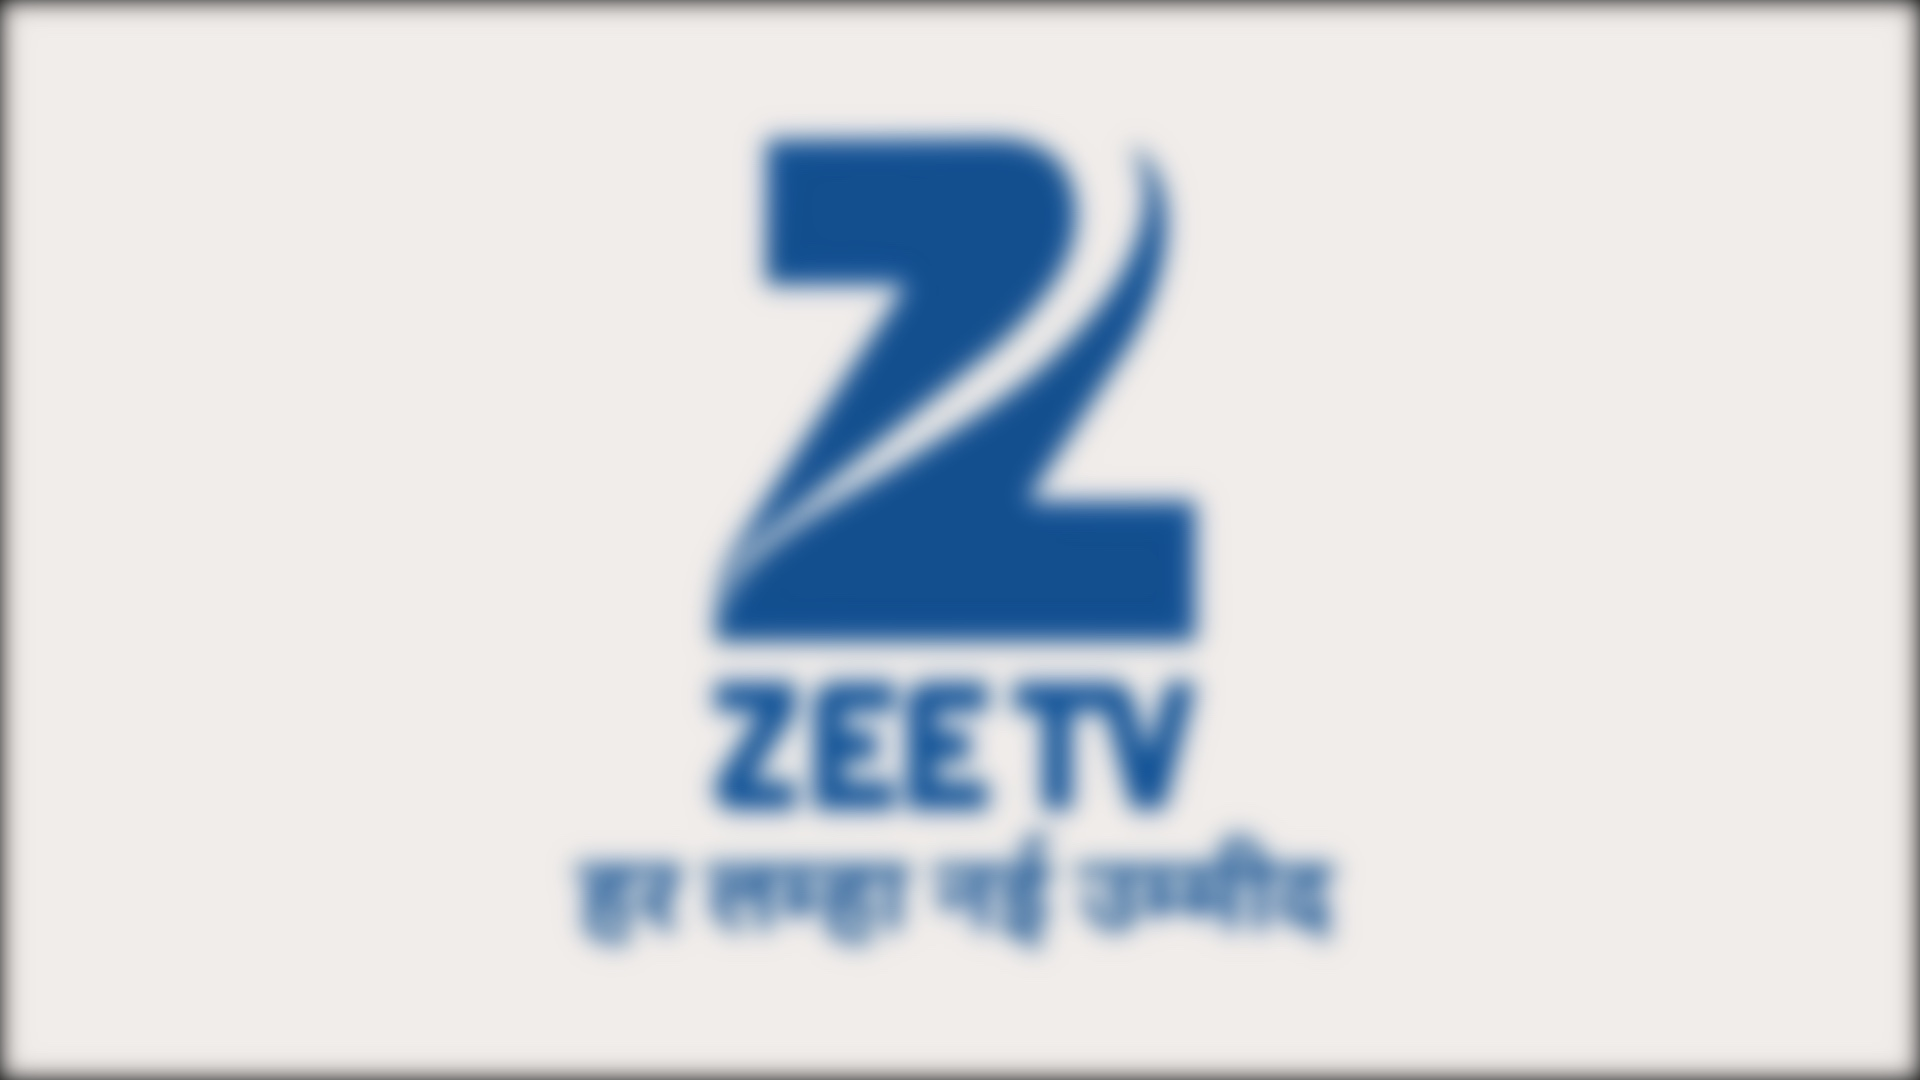
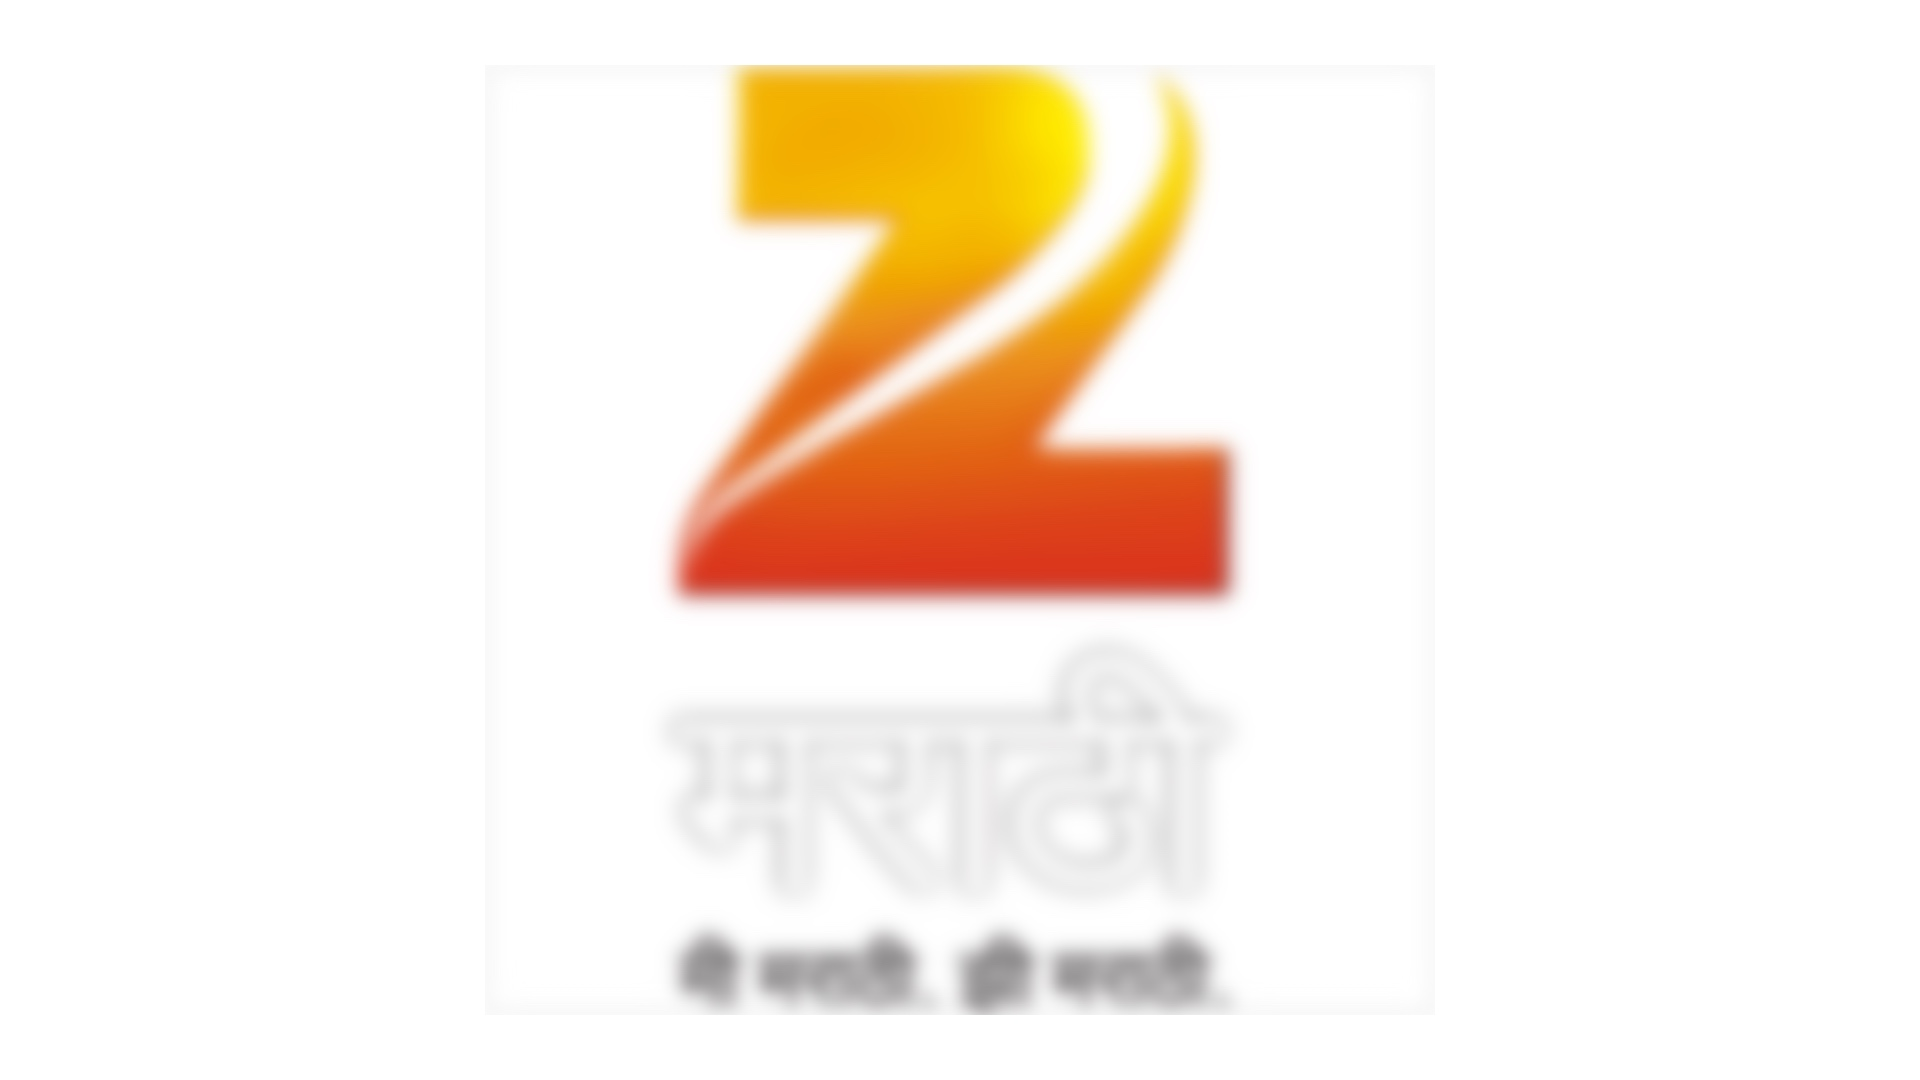
[plugin.video.zeemarathi] 0.0.3

Changed region(s): [[0.2812, 0.0611, 0.7188, 0.9472], [0.0, 0.0, 1.0, 1.0]]

diff --git a/plugin.video.zeetv/addon.py b/plugin.video.zeetv/addon.py
@@ -16,8 +16,6 @@ def current_shows():
 
     soup = BeautifulSoup(h.make_request(url, cookie_file, cookie_jar))
 
-    h2s = h.bs_find_all_with_class(soup, 'h2', 'bubble-title')
-
     # XXX: If want sorted
     # import operator
     # shows = {}
@@ -26,14 +24,16 @@ def current_shows():
 
     # XXX: View mode thumbnail supported in xbmcswift2
 
-    h2 = None
-    for h2 in h2s:
-        if h2.text == 'Current Shows':
-            for li in h2.findNext('ul').findAll('li'):
+    h2 = soup.findAll('h2')
+
+    for h2 in soup.findAll('h2'):
+        if h2.text == 'Shows':
+            for li in h2.nextSibling.find('ul').findAll('li'):
                 a = li.find('a')
                 a_attrs = dict(a.attrs)
+                title = '%s (%s)' % (h.bs_find_with_class(a, 'div', 'zc-show-title').text, h.bs_find_with_class(a, 'div', 'zc-air-time').text)
                 img_src = dict(a.find('img').attrs)['src']
-                h.add_dir(addon_handle, base_url, a_attrs['title'], a_attrs['href'], 'show', img_src, img_src)
+                h.add_dir(addon_handle, base_url, title, '%s/video/' % a_attrs['href'], 'show', img_src, img_src)
             break
 
 
@@ -42,57 +42,43 @@ def archive_shows():
 
     soup = BeautifulSoup(h.make_request(url, cookie_file, cookie_jar))
 
-    ul = h.bs_find_with_class(soup, 'ul', 'archive-shows')
+    h2 = soup.findAll('h2')
 
-    for li in ul.findAll('li'):
-        a = li.find('a')
-        a_attrs = dict(a.attrs)
-        h.add_dir(addon_handle, base_url, a_attrs['title'], a_attrs['href'], 'show')
+    for h2 in soup.findAll('h2'):
+        if h2.text == 'Archive Shows':
+            for div in h.bs_find_all_with_class(h2.nextSibling, 'div', 'archive-show'):
+                a = div.find('a')
+                a_attrs = dict(a.attrs)
+                h.add_dir(addon_handle, base_url, a_attrs['title'], '%s/video/' % a_attrs['href'], 'show')
+            break
 
 
 def show():
     url = h.extract_var(args, 'url')
 
-    url = '%svideo/' % (url)
+    url = '%s%s' % (ZEEMARATHI_REFERRER, url)
 
     soup = BeautifulSoup(h.make_request(url, cookie_file, cookie_jar))
 
-    info_div = h.bs_find_with_class(soup, 'div', 'video-n-info-wrap')
+    ul = soup.find('ul', {'class': lambda x: x and 'show-videos-list' in x.split()})
+    for li in ul:
+        div = li.find('div', {'class': lambda x: x and 'video-watch' in x.split()})
+        episode_url = div.find('a')['href']
+        name = li.find('div', {'class': 'video-episode'}).text
+        img_src = 'DefaultFolder.png'
+        img = li.find('img')
+        if img:
+            img_src = img['src']
 
-    pagination = h.bs_find_with_class(info_div, 'ul', 'pagination')
-    pages = {
-        'prev': [],
-        'next': []
-    }
-    page_type = 'prev'
-    if pagination:
-        pages_li = pagination.findAll('li')[1:-1]
-        for li in pages_li:
-            attrs = dict(li.attrs)
-            if 'class' in attrs and attrs['class'] == 'active':
-                page_type = 'next'
-            else:
-                a = li.find('a')
-                a_attrs = dict(a.attrs)
-                pages[page_type].append({
-                    'href': a_attrs['href'],
-                    'page': a.text
-                })
+        h.add_dir(addon_handle, base_url, name, episode_url, 'episode', img_src, img_src)
 
-    for page in pages['prev']:
-        h.add_dir(addon_handle, base_url, '<< Page %s' % page['page'], page['href'], 'show')
-
-    related_div = h.bs_find_with_class(info_div, 'div', 'related-videos')
-    ul = related_div.find('ul')
-    for li in ul.findAll('li'):
-        a = li.find('a')
-        a_attrs = dict(a.attrs)
-        href = a_attrs['href']
-        # if href.endswith('-full-episode.html'):
-        h.add_dir(addon_handle, base_url, a_attrs['title'], href, 'episode', dict(a.find('img').attrs)['src'])
-
-    for page in pages['next']:
-        h.add_dir(addon_handle, base_url, '>> Page %s' % page['page'], page['href'], 'show')
+    pager = soup.find('ul', {'class': lambda x: x and 'pager' in x.split()})
+    if pager:
+        next_link = pager.find('li', {'class': lambda x: x and 'pager-next' in x.split()})
+        if next_link:
+            next_url = next_link.find('a')['href']
+            if next_url:
+                h.add_dir(addon_handle, base_url, 'Next >>', next_url, 'show')
 
 
 def episode():
@@ -102,36 +88,21 @@ def episode():
 
     soup = BeautifulSoup(h.make_request(url, cookie_file, cookie_jar))
 
-    div = h.bs_find_with_class(soup, 'div', 'video-player')
-    script = div.find('script')
-    url = ''
-    if script:
-        url = script.text.split('bigmumbai = ', 2)[2].split(';')[0][1:-1]
-        plot = h.bs_find_with_class(soup, 'div', 'vp-info').find('span', {'itemprop': 'description'}).text
-        thumbnail = soup.find('div', {'itemprop': 'video'}).find('meta', {'itemprop': 'thumbnailUrl'})['content']
-        h.add_dir_video(addon_handle, name, url, thumbnail, plot)
-    else:
-        print div
-        '''
-        iframe = div.find('iframe')
-        if iframe:
-            attrs = dict(iframe.attrs)
-            youtube_url = attrs['src']
-            video_id = urlparse.urlparse(youtube_url).path.replace('/embed/', '')
-            # trailer_id = re.match('^[^v]+v=(.{11}).*', meta['trailer_url']).group(1)
-            # infoLabels['trailer'] = "plugin://plugin.video.youtube/?action=play_video&videoid=%s" % trailer_id
-            # url = 'plugin://plugin.video.youtube/play/?video_id=%s' % video_id
-            # print url
-            # xbmc.executebuiltin("xbmc.PlayMedia("+url+")")
-        '''
-        h.add_dir(addon_handle, base_url, 'Youtube link - Not implemented yet', '', 'not_implemented')
+    script = soup.find('div', {'id': 'block-gec-videos-videopage-videos'}).find('script')
+
+    master_m3u8 = script.text.split('babyenjoying = ', 2)[2].split(';')[0][1:-1]
+
+    plot = soup.find('p', {'itemprop': 'description'}).text
+    thumbnail = soup.find('meta', {'itemprop': 'thumbnailUrl'})['content']
+
+    h.add_dir_video(addon_handle, name, master_m3u8, thumbnail, plot)
 
 
 def not_implemented():
     pass
 
-ZEETV_REFERRER = 'http://www.zeetv.com'
-SHOWS_URL = '%s/shows/' % ZEETV_REFERRER
+ZEEMARATHI_REFERRER = 'http://www.zeemarathi.com'
+SHOWS_URL = '%s/shows/' % ZEEMARATHI_REFERRER
 
 addon_id = os.path.basename(os.path.dirname(os.path.abspath(__file__)))
 cookie_file, cookie_jar = h.init_cookie_jar(addon_id)

diff --git a/plugin.video.zeetv/README.md b/plugin.video.zeetv/README.md
@@ -1,2 +1,2 @@
-# plugin.video.zeetv
-Kodi video addon for http://www.zeetv.com
+# plugin.video.zeemarathi
+Kodi video addon for http://www.zeemarathi.com
